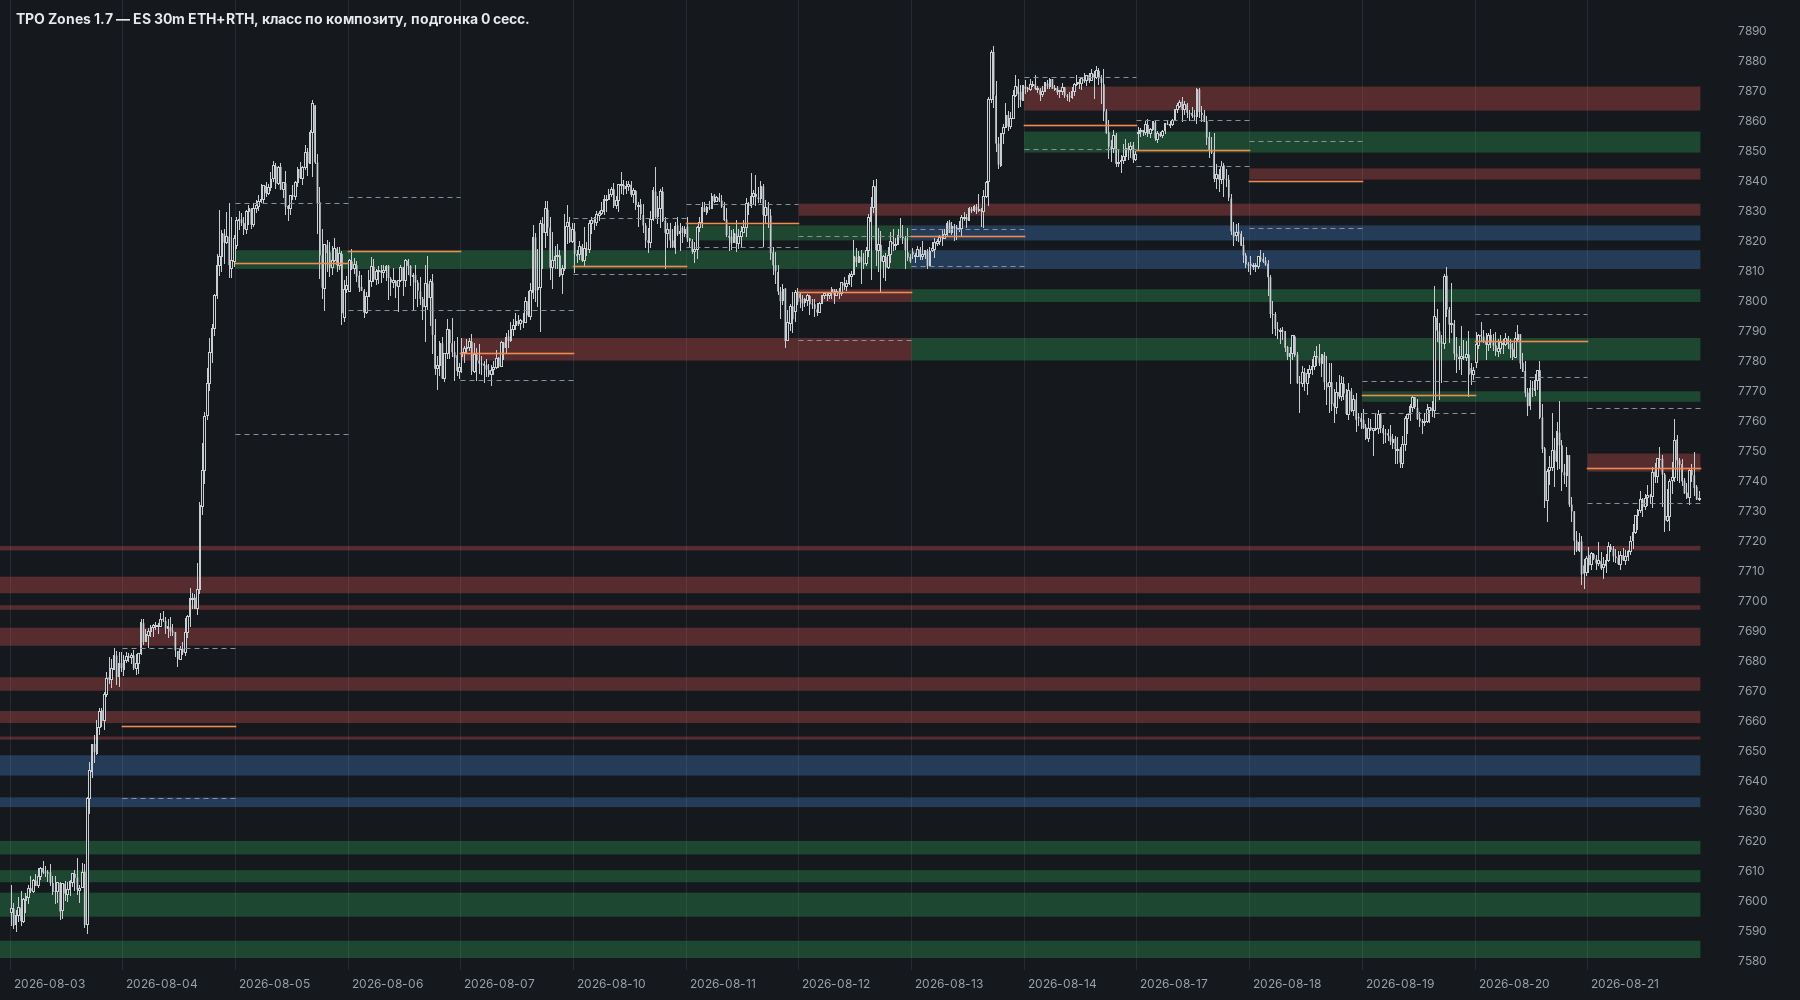
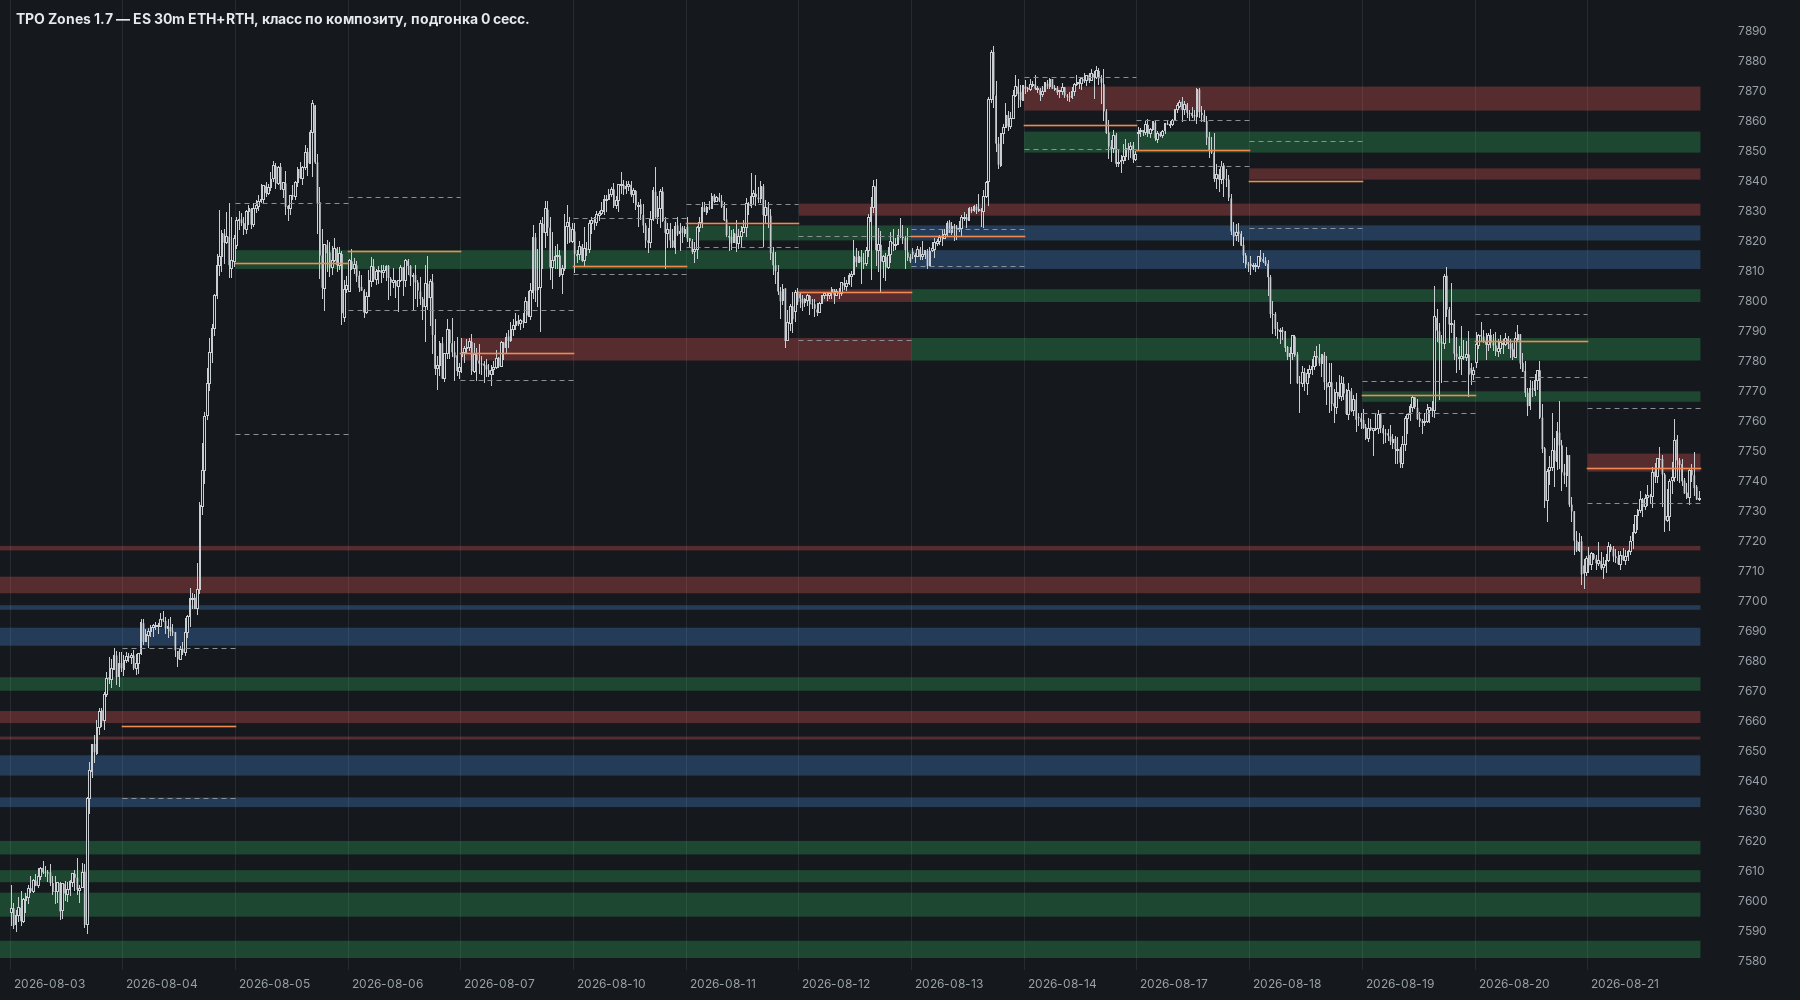
Composites: an outside day joins by the OR rule too
The inside-day exception is now symmetric: the day joins by close in
range OR VA overlap when the narrower of the two ranges (day or composite)
lies at least 80% inside the other. 01.06 engulfs 29.05 (close 1.75 pts
above, VA overlap 100%, only 61% of the day inside 29.05), so 29.05-04.06
is one composite again; 05.06-12.06 still splits at 09.06. Setting
"outside day" (on by default).

Balances 91, refinements 95, not-balances 23; colour match with manual
zones 23% (3 of 111 zones). dist/TpoZones-1.7.jar is not rebuilt (no
MotiveWave SDK here).

Claude-Session: https://claude.ai/code/session_01PTkojwxsX3jzc4BttC3Khg

Changed region(s): [[0.0, 0.589, 0.9644, 0.713]]

diff --git a/motivewave/src/patterns/zones/TpoZonesStudy.java b/motivewave/src/patterns/zones/TpoZonesStudy.java
@@ -56,7 +56,7 @@ import patterns.zones.ZoneEngine.Result;
 public class TpoZonesStudy extends Study {
 
     // ---- ключи настроек
-    static final String FALSE_BRK = "compFalseBreak", COMP_VA = "compVaOverlap", COMP_AND = "compJoinBoth", COMP_IN = "compInsideShare", S_GAP = "sessMinGap", S_SHARE = "sessPeakShare", SESS = "sessionZones", S_PEAK = "sessMinPeak", S_BODY = "sessBody", CLUST = "bodyClusters", CL_DIP = "clusterDip", CL_MAX = "clusterMax", SUB_ADD = "subAddsZones", FIT_ETH = "fitEth", FIT_B = "fitBody", FIT_C = "fitCluster", PMAXB = "partMaxBody", PART = "partition", BODY = "bodyShare", PCORE = "partCore", PTGT = "partTarget", NODES = "coreNodes", NODE_DIP = "nodeDip", NODE_DROP = "nodeDrop", NO_OVERLAP = "noOverlap", MIN_PIECE = "minPiece", SHORT_DAYS = "compShortDays", SUB_OV = "subOverlap", SUB_RATIO = "subRatio", CLIFF = "coreCliff", CORE_DAYS = "coreMinDays", CORE_SESS = "coreFromSessions", JOIN_GAP = "joinGap", ZONE_W = "zoneMaxW", MODE = "compositeMode", CORE_VA = "coreByVa", BAR30 = "bar30", HISTORY_DAYS = "historyDays", TZ = "tz", RTH_START = "rthStart",
+    static final String FALSE_BRK = "compFalseBreak", COMP_VA = "compVaOverlap", COMP_AND = "compJoinBoth", COMP_IN = "compInsideShare", COMP_OUT = "compOutsideDays", S_GAP = "sessMinGap", S_SHARE = "sessPeakShare", SESS = "sessionZones", S_PEAK = "sessMinPeak", S_BODY = "sessBody", CLUST = "bodyClusters", CL_DIP = "clusterDip", CL_MAX = "clusterMax", SUB_ADD = "subAddsZones", FIT_ETH = "fitEth", FIT_B = "fitBody", FIT_C = "fitCluster", PMAXB = "partMaxBody", PART = "partition", BODY = "bodyShare", PCORE = "partCore", PTGT = "partTarget", NODES = "coreNodes", NODE_DIP = "nodeDip", NODE_DROP = "nodeDrop", NO_OVERLAP = "noOverlap", MIN_PIECE = "minPiece", SHORT_DAYS = "compShortDays", SUB_OV = "subOverlap", SUB_RATIO = "subRatio", CLIFF = "coreCliff", CORE_DAYS = "coreMinDays", CORE_SESS = "coreFromSessions", JOIN_GAP = "joinGap", ZONE_W = "zoneMaxW", MODE = "compositeMode", CORE_VA = "coreByVa", BAR30 = "bar30", HISTORY_DAYS = "historyDays", TZ = "tz", RTH_START = "rthStart",
             RTH_END = "rthEnd", ETH_START = "ethStart", TICK = "tick", VA_PCT = "vaPct", HVN_SHARE = "hvnShare",
             HVN_MIN = "hvnMin", HVN_MAX = "hvnMax", GHVN_MIN = "greyHvnMin", GHVN_MAX = "greyHvnMax",
             MERGE_OV = "mergeOv", MERGE_W = "mergeW", COMP_DAYS = "compDays", GREY_HIST = "greyHist",
@@ -116,6 +116,7 @@ public class TpoZonesStudy extends Study {
         g.addRow(new DoubleDescriptor(COMP_VA, "Композит: наслоение VA — VA дня и композита пересекаются на ≥ долю меньшей (0 — не проверять)", 0.5, 0, 1, 0.05));
         g.addRow(new BooleanDescriptor(COMP_AND, "Композит: день входит, только если close в диапазоне И наслоение VA (выкл. — ИЛИ)", true));
         g.addRow(new DoubleDescriptor(COMP_IN, "Композит: день, чей High–Low на ≥ долю внутри диапазона композита, входит по ИЛИ (0 — выкл.)", 0.8, 0, 1, 0.05));
+        g.addRow(new BooleanDescriptor(COMP_OUT, "Композит: внешний день (диапазон композита на ≥ ту же долю внутри дня) — тоже по ИЛИ", true));
         g.addRow(new BooleanDescriptor(FALSE_BRK, "Композит: ложный выход — возврат close в диапазон закрытого композита (до 3 дней) доклеивает дни к нему", true));
         g.addRow(new BooleanDescriptor(SHORT_DAYS, "Короткие дни (ранние закрытия) входят в композиты", true));
         g.addRow(new DoubleDescriptor(SUB_OV, "Уточнение: ≥ доли диапазона композита внутри раннего баланса — его ядро серое (0 — выкл.)", 0.70, 0, 1, 0.05));
@@ -276,6 +277,7 @@ public class TpoZonesStudy extends Study {
         p.compVaOverlap = st.getDouble(COMP_VA, 0.5);
         p.compJoinBoth = st.getBoolean(COMP_AND, true);
         p.compInsideShare = st.getDouble(COMP_IN, 0.8);
+        p.compOutsideDays = st.getBoolean(COMP_OUT, true);
         p.compFalseBreak = st.getBoolean(FALSE_BRK, true);
         p.coreNodes = st.getBoolean(NODES, true);
         p.partition = st.getBoolean(PART, true);

diff --git a/motivewave/src/patterns/zones/ZoneEngine.java b/motivewave/src/patterns/zones/ZoneEngine.java
@@ -92,6 +92,7 @@ public final class ZoneEngine {
                                                   // так же и доклейка после ложного выхода
         public double compInsideShare = 0.8;      // ... но день, чей High–Low на ≥ эту долю внутри диапазона композита, клеится по ИЛИ
                                                   // (0 — выкл.)
+        public boolean compOutsideDays = true;    // ... и внешний день: диапазон композита на ≥ ту же долю внутри High–Low дня
         public boolean sessionZones = true;       // зоны из узлов RTH TPO каждой сессии, подогнанные по телам / теням свечей;
                                                   // композит только задаёт роль (ядро / выше / ниже) и один раз перекрашивает
         public double sessNodeDrop = 1.0;         // узел — строки не ниже вершины на столько TPO (сглаж. 1 п.)
@@ -740,12 +741,15 @@ public final class ZoneEngine {
         return inter > 0 && inter / (double) narrow >= p.compVaOverlap;
     }
 
-    /** High–Low дня на ≥ compInsideShare внутри диапазона композита (compInsideShare = 0 — выкл.). */
+    /** Внутренний день: High–Low дня на ≥ compInsideShare внутри диапазона композита; внешний (compOutsideDays) —
+     *  наоборот, диапазон композита на ≥ эту долю внутри High–Low дня (compInsideShare = 0 — выкл.). */
     static boolean insideDay(Day d, Profile cp, Params p) {
         if (p.compInsideShare <= 0) return false;
         int lo = ticks(d.low, p.tick), hi = ticks(d.high, p.tick);
         int in = Math.min(hi, cp.high()) - Math.max(lo, cp.low);
-        return in >= 0 && (hi == lo || in / (double) (hi - lo) >= p.compInsideShare - 1e-9);
+        if (in < 0) return false;
+        int w = p.compOutsideDays ? Math.min(hi - lo, cp.high() - cp.low) : hi - lo;   // доля от более узкого
+        return w == 0 || in / (double) w >= p.compInsideShare - 1e-9;
     }
 
     private static Comp closeComposite(List<Day> cand, Profile cp, LocalDate endDay, Params p,

diff --git a/motivewave/README.md b/motivewave/README.md
@@ -22,8 +22,9 @@
   главного узла дня), подогнанные по телам свечей сессии ETH + RTH, 1–8 п.; первая зона на уровне главная —
   узел ближе 3 п. к существующей зоне её подтверждает, младшая налезающая зона не рисуется, между зонами
   всегда пустота; композит задаёт роль и один раз перекрашивает. Композит: день входит, только если close
-  в диапазоне **и** VA дня и композита пересекаются (≥ 50% меньшей); день, чей High–Low на ≥ 80% внутри
-  диапазона композита, — по **или**; ложный выход доклеивает дни к закрытому композиту. Исправлено ядро в нуле (зоны вне тела
+  в диапазоне **и** VA дня и композита пересекаются (≥ 50% меньшей); внутренний день (High–Low на ≥ 80%
+  внутри диапазона композита) и внешний (диапазон композита на ≥ 80% внутри дня) — по **или**; ложный выход
+  доклеивает дни к закрытому композиту. Исправлено ядро в нуле (зоны вне тела
   композита краснели). Замер против ручной разметки (`parity/Bench.java`) и сравнение картинкой
   (`Preview -Dmanual=…`).
 - **1.6** (ветка `zones-1.6`) — разметка композита как ручная расстановка: тело композита режется на
@@ -193,11 +194,13 @@ java -cp <classes> Bench bars.csv output/manual_zones_bench.csv compositeMode=tr
 **Как складывается композит** (режим «по композиту»): RTH-дни по порядку (короткие тоже), профиль
 кандидата — сумма TPO его дней. День входит, только если выполнены **оба** условия: его close внутри
 High–Low кандидата **и** VA дня и VA кандидата пересекаются на ≥ 50% меньшей из двух (наслоение VA).
-Исключение — **день внутри**: если High–Low дня на ≥ 80% лежит внутри диапазона кандидата (настройка,
-0 — выкл.), достаточно одного из условий (close в диапазоне **или** наслоение VA). Иначе кандидат
+Исключение — **внутренний и внешний день**: если High–Low дня на ≥ 80% лежит внутри диапазона кандидата
+или, наоборот, диапазон кандидата на ≥ 80% внутри High–Low дня (доля от более узкого из двух; настройка,
+0 — выкл., внешний день — отдельной галочкой), достаточно одного из условий (close в диапазоне **или**
+наслоение VA). Правило симметрично: пара дней клеится одинаково, в каком бы порядке они ни шли. Иначе кандидат
 закрывается, день открывает новый. **Ложный выход:** если новый кандидат ещё не набрал
 3 дней, а день закрылся обратно в диапазоне только что закрытого композита (не шире 100 п.) и его VA
-наслаивается на VA композита (или день внутри), дни после выхода доклеиваются к нему (не больше 2 раз подряд). Кандидат
+наслаивается на VA композита (или день внутренний / внешний), дни после выхода доклеиваются к нему (не больше 2 раз подряд). Кандидат
 ≥ 3 дней — композит (затем фильтры: баланс по VA дней, уточнение внутри раннего баланса, тело ≤ 100 п.).
 Галочка «close в диапазоне И наслоение VA» снята — старое правило 1.7: close в диапазоне **или** наслоение VA.
 
@@ -209,15 +212,18 @@ High–Low кандидата **и** VA дня и VA кандидата пере
 весь день (7366.50–7461.75) внутри диапазона 7247.25–7491, поэтому по «или» входит. Композит 09.06–12.06,
 сложился 15.06 (гэп вверх). Без правила «день внутри» 12.06 — выход, композит 09.06–11.06.
 
-Ренж 29.05–04.06 при 80% — не композит: 01.06 закрылся на 1.75 п. выше диапазона 29.05, VA наслаиваются на
-100%, но внутри диапазона 29.05 только 61% дня. При доле ≤ 60% он снова один композит 29.05–04.06.
+Пример внешнего дня — 29.05–04.06: 01.06 закрылся на 1.75 п. выше диапазона 29.05 (7577.50–7611.50), VA
+наслаиваются на 100%. Внутри диапазона 29.05 только 61% дня (хай на 20.75 п. выше), зато весь 29.05 внутри
+01.06 — внешний день, «или», склейка. Поменяй дни местами — 29.05 был бы внутренним днём к 01.06. Дальше
+02.06 внутри (close в диапазоне), 03.06 закрылся на 4.5 п. ниже и VA ниже — выход, композит 29.05–02.06 закрыт;
+04.06 закрылся обратно в диапазоне — ложный выход, 03.06–04.06 доклеиваются: композит 29.05–04.06.
 
-| Склейка | Балансов | Не-балансов | Медиана диапазона | Цвет vs ручные |
-|---|---|---|---|---|
-| ИЛИ (1.7 до правки) | 88 | 51 | 99.5 п. | 23% |
-| И | 87 | 5 | 80.5 п. | 26% |
-| И, день внутри ≥ 80% — ИЛИ (по умолчанию) | 90 | 20 | 92.8 п. | 26% |
-| И, день внутри ≥ 60% — ИЛИ | 92 | 31 | 99.5 п. | 23% |
+| Склейка | Балансов | Уточнений | Не-балансов | Медиана диапазона | Цвет vs ручные |
+|---|---|---|---|---|---|
+| ИЛИ (1.7 до правки) | 88 | 78 | 51 | 99.5 п. | 23% |
+| И | 87 | 83 | 5 | 80.5 п. | 26% |
+| И, внутренний день ≥ 80% — ИЛИ | 90 | 83 | 20 | 92.8 п. | 26% |
+| И, внутренний / внешний день ≥ 80% — ИЛИ (по умолчанию) | 91 | 95 | 23 | 91.8 п. | 23% |
 
 Зоны во всех вариантах те же (композит задаёт только роль); не-баланс — композит, дни которого не сходятся
 в ядре (выбрасывается).
